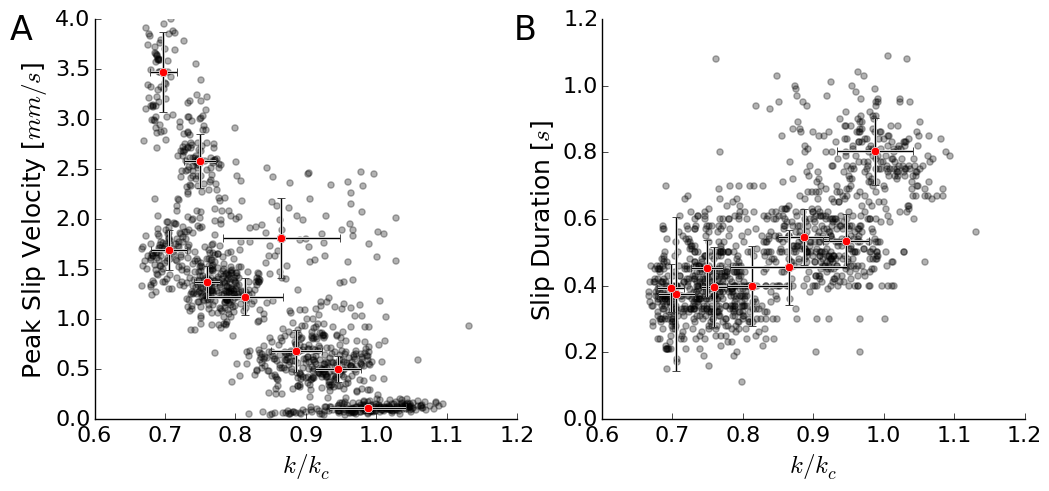
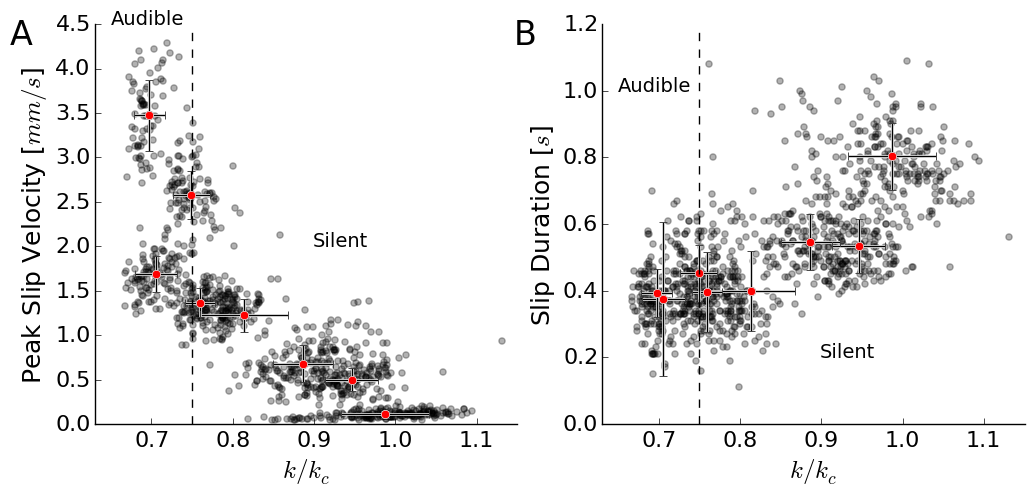
Add silent/audible annotation

diff --git a/Figures/Fig_Event_Summary/make_final_plot.py b/Figures/Fig_Event_Summary/make_final_plot.py
@@ -39,7 +39,7 @@ def filter(data,col,low,high):
     return data_trim
 
 # Tuple of experiments we'll consider for plotting even data from
-experiments_with_event_data = ('p4342','p4343','p4344','p4345','p4346',
+experiments_with_event_data = ('p4343','p4344','p4345','p4346',
                                'p4347','p4348','p4350','p4351')
 
 # Tuple of experiments we'll plot unload/reload stiffness from
@@ -92,8 +92,13 @@ for key in experiment_event_data:
     ax1.errorbar(np.mean(event_data[:,5]/0.0007),np.mean(event_data[:,y_col]/1000.),fmt='ro',ecolor='w',elinewidth=2,xerr=np.std(event_data[:,5]/0.0007),yerr=np.std(event_data[:,y_col]/1000.))
     ax1.errorbar(np.mean(event_data[:,5]/0.0007),np.mean(event_data[:,y_col]/1000.),fmt='ro',markeredgecolor='w',ecolor='k',elinewidth=1,xerr=np.std(event_data[:,5]/0.0007),yerr=np.std(event_data[:,y_col]/1000.))
 
-ax1.set_ylim(0,4)
-#ax1.set_xlim(4.5,8.5)
+# Add audible/non-audible annotation
+ax1.axvline(x=0.75,color='k',linestyle='--')
+ax1.text(0.65,4.5,'Audible',fontsize=14)
+ax1.text(0.9,2.0,'Silent',fontsize=14)
+
+ax1.set_ylim(0,4.5)
+ax1.set_xlim(0.63,1.15)
 
 # Panel B
 
@@ -129,7 +134,12 @@ for key in experiment_event_data:
     ax2.errorbar(np.mean(event_data[:,5]/0.0007),np.mean(event_data[:,y_col]),fmt='ro',markeredgecolor='w',ecolor='k',elinewidth=1,xerr=np.std(event_data[:,5]/0.0007),yerr=np.std(event_data[:,y_col]))
 
     #ax2.errorbar(np.mean(event_data[:,5]/0.0007),np.mean(event_data[:,y_col]),fmt='ro',ecolor='k',elinewidth=2,xerr=np.std(event_data[:,5]/0.0007),yerr=np.std(event_data[:,y_col]))
+# Add audible/non-audible annotation
+ax2.axvline(x=0.75,color='k',linestyle='--')
+ax2.text(0.65,1.0,'Audible',fontsize=14)
+ax2.text(0.9,0.2,'Silent',fontsize=14)
 
+ax2.set_xlim(0.63,1.15)
 ax2.set_ylim(0,1.2)
 #ax2.set_xlim(4.5,8.5)
 
